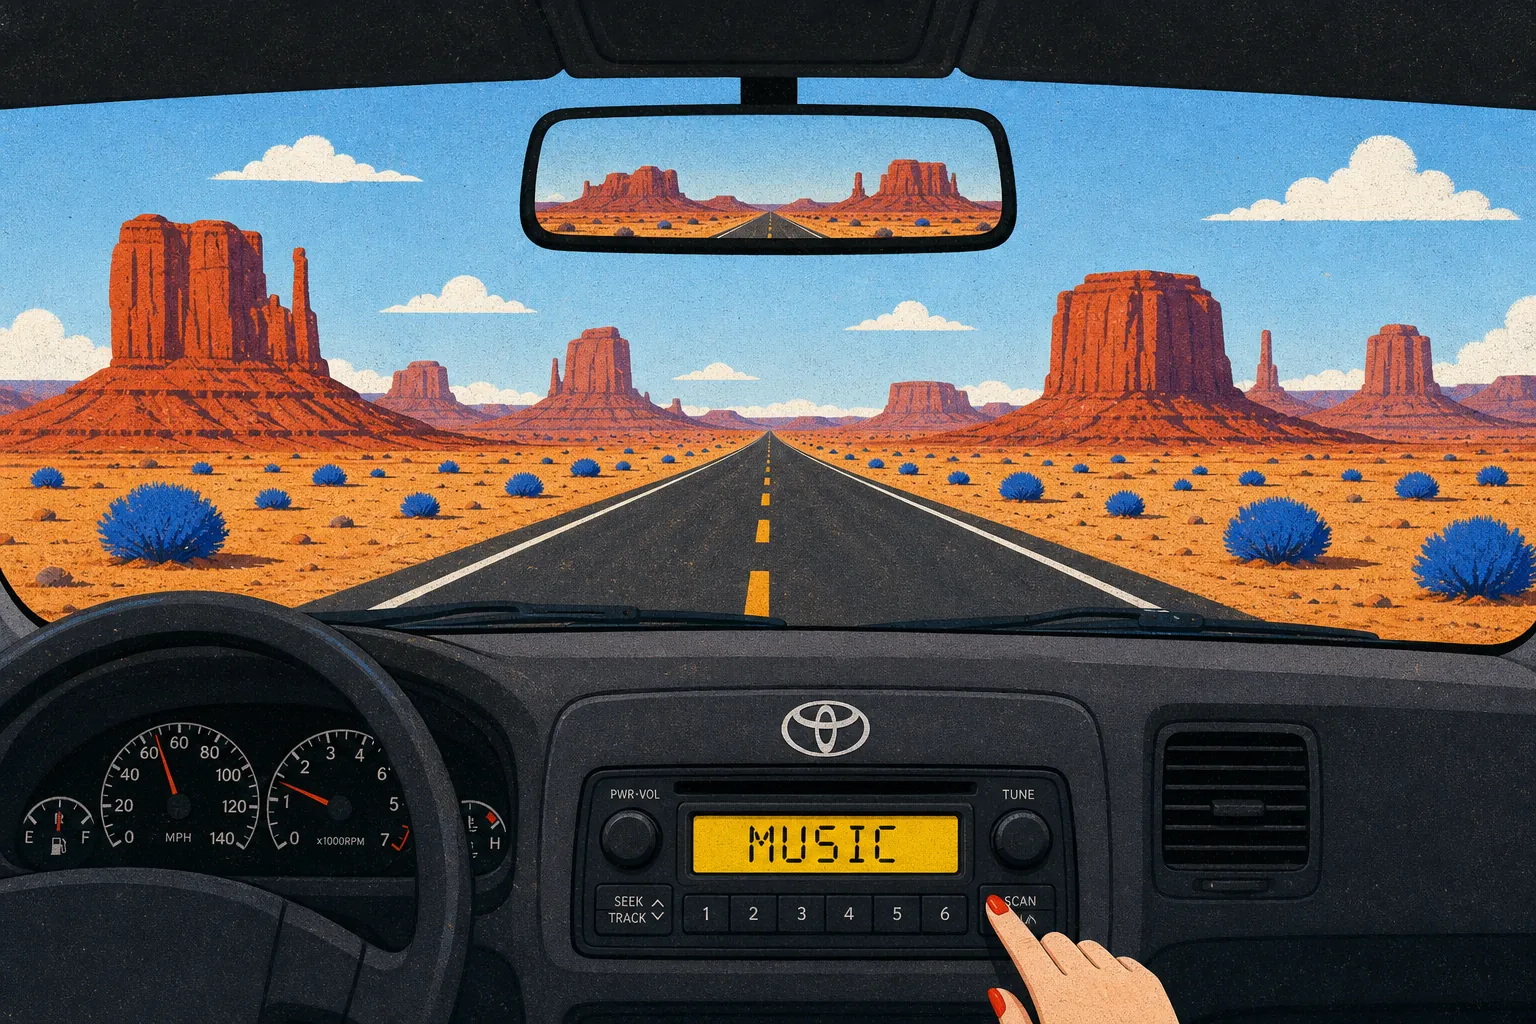
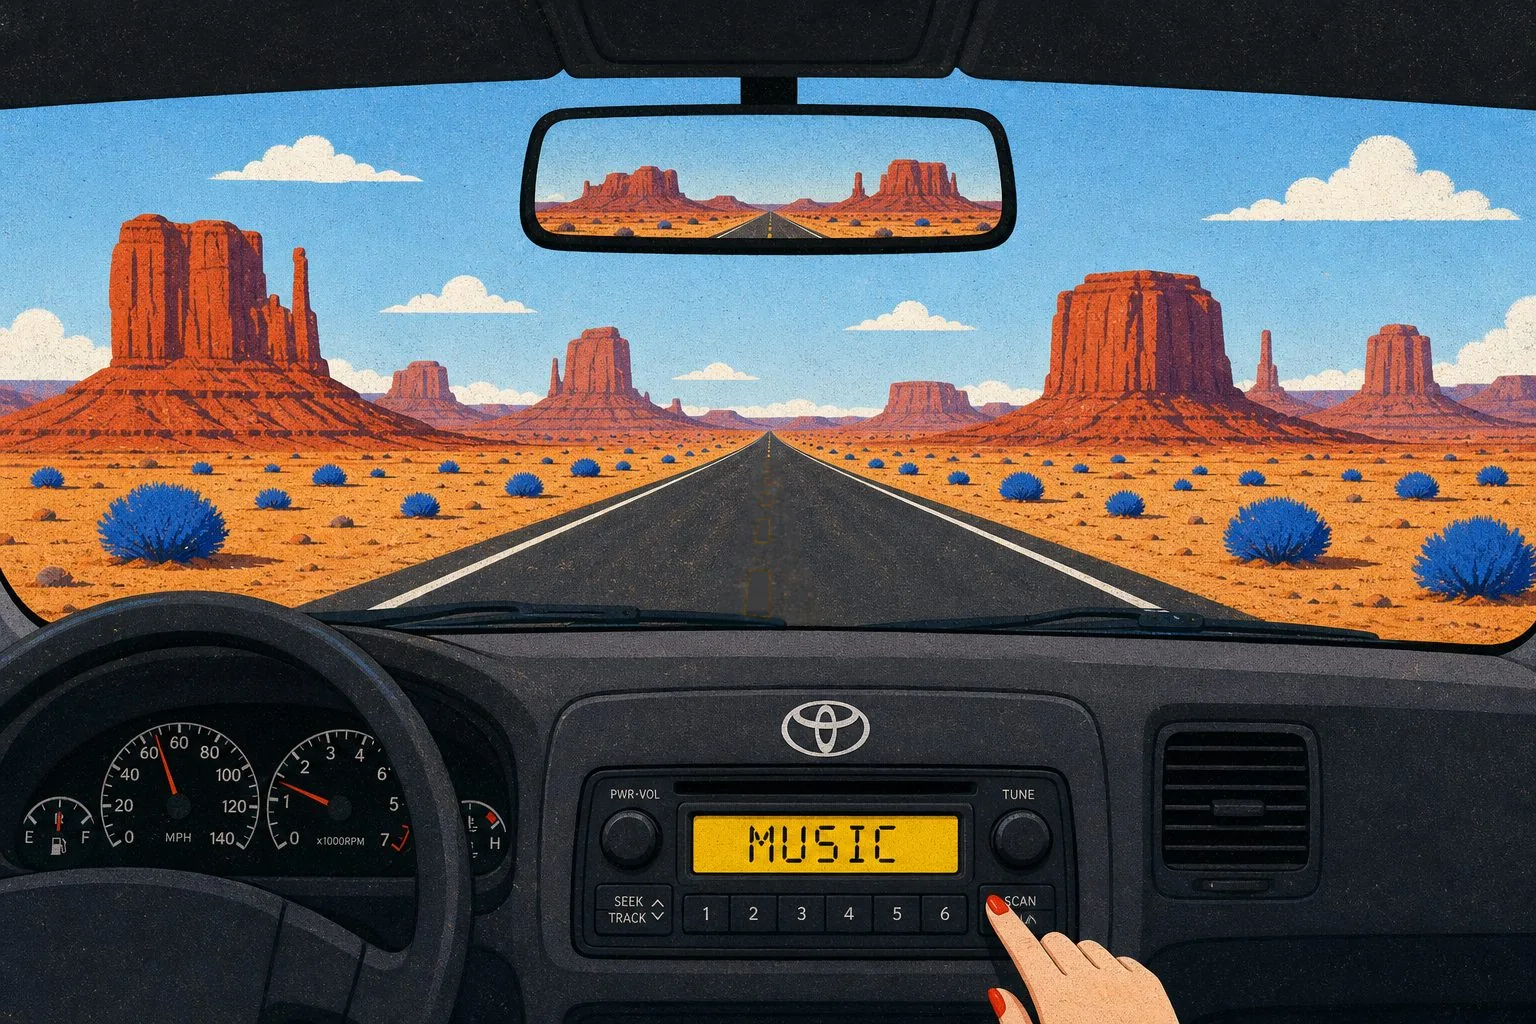
Unify hero road colors by removing asphalt cutout.
Erase printed centre dashes from the art and animate yellow lines
on a transparent overlay so the grainy road texture stays continuous.

Changed region(s): [[0.4688, 0.5625, 0.5, 0.625], [0.4688, 0.5, 0.5, 0.5312]]

diff --git a/src/app/globals.css b/src/app/globals.css
@@ -99,53 +99,33 @@ h3::selection {
   left: 50%;
   top: 0;
   bottom: 0;
-  width: min(28vw, 220px);
+  width: min(12vw, 96px);
   transform: translateX(-50%);
   overflow: hidden;
   /* Fake perspective: narrow at horizon, wide near dash */
-  clip-path: polygon(46% 0%, 54% 0%, 100% 100%, 0% 100%);
+  clip-path: polygon(40% 0%, 60% 0%, 100% 100%, 0% 100%);
+  /* No solid fill — keep illustration asphalt texture underneath */
+  background: transparent;
 }
 
 .road-dash-track {
   position: absolute;
-  left: 0;
-  right: 0;
+  left: 28%;
+  right: 28%;
   top: -100%;
   height: 200%;
+  /* Yellow matched to printed dashes in the art */
   background-image: repeating-linear-gradient(
     to bottom,
-    #ffe14a 0,
-    #ffe14a 18px,
-    transparent 18px,
-    transparent 46px
+    #ea9a26 0,
+    #ea9a26 14px,
+    transparent 14px,
+    transparent 40px
   );
-  background-size: 100% 46px;
+  background-size: 100% 40px;
   animation: road-dash-scroll 0.55s linear infinite;
   will-change: transform;
-}
-
-.road-edge {
-  position: absolute;
-  top: 0;
-  bottom: 0;
-  width: 2px;
-  background: linear-gradient(
-    to bottom,
-    rgba(240, 240, 235, 0.35),
-    rgba(240, 240, 235, 0.95)
-  );
-}
-
-.road-edge-left {
-  left: 42%;
-  transform: skewX(7deg);
-  transform-origin: top center;
-}
-
-.road-edge-right {
-  right: 42%;
-  transform: skewX(-7deg);
-  transform-origin: top center;
+  opacity: 0.92;
 }
 
 @keyframes road-dash-scroll {
@@ -153,8 +133,7 @@ h3::selection {
     transform: translate3d(0, 0, 0);
   }
   to {
-    /* Move dashes downward = car going forward */
-    transform: translate3d(0, 46px, 0);
+    transform: translate3d(0, 40px, 0);
   }
 }
 

diff --git a/src/components/HomeCanvas.tsx b/src/components/HomeCanvas.tsx
@@ -35,12 +35,12 @@ export function HomeCanvas() {
       const dx = (w - dw) / 2;
       const dy = (h - dh) / 2;
 
-      // Road trapezoid in the art (fractions of the illustration)
+      // Clip only the centre-dash corridor (transparent overlay)
       const y0 = dy + dh * 0.448;
       const y1 = dy + dh * 0.608;
       const cx = dx + dw * 0.5;
-      const halfFar = dw * 0.01;
-      const halfNear = dw * 0.09;
+      const halfFar = dw * 0.005;
+      const halfNear = dw * 0.022;
 
       const pct = (x: number, y: number) =>
         `${((x / w) * 100).toFixed(3)}% ${((y / h) * 100).toFixed(3)}%`;
@@ -96,12 +96,10 @@ export function HomeCanvas() {
         className="pointer-events-none absolute inset-0 z-[5] overflow-hidden"
         aria-hidden
       >
-        <div className="absolute inset-0 bg-[#101010]" />
+        {/* Transparent overlay — art already has clean asphalt; only dashes move */}
         <div className="road-dash-stage">
           <div className="road-dash-track" />
         </div>
-        <div className="road-edge road-edge-left" />
-        <div className="road-edge road-edge-right" />
       </div>
 
       <div
